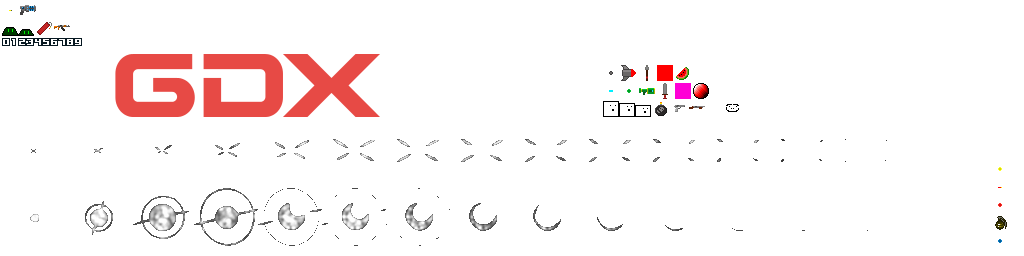
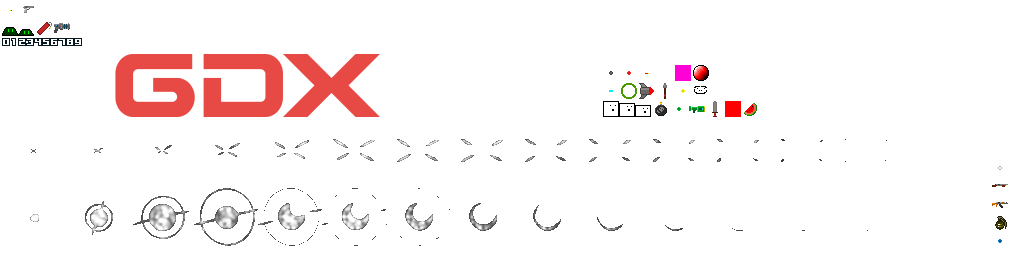
añadir particulas

diff --git a/core/src/main/java/com/tikisadventure/effects/EffectType.java b/core/src/main/java/com/tikisadventure/effects/EffectType.java
@@ -27,9 +27,9 @@ public enum EffectType {
 
     // --- EFECTO DE EXPLOSIÓN SPRITESHEET ---
     EXPLOSION_SPRITESHEET("explosion_spritesheet", 3f, 4f, false, false, 0f, Color.WHITE, Color.YELLOW, 1f),
-    FIRE_PARTICLE("RedBullet", 0.9f, 0.35f, false, true, 0f, Color.ORANGE, Color.RED, 0.95f),
-    POISON_PARTICLE("GreenBullet", 0.6f, 0.4f, false, true, 0f, Color.LIME, Color.GREEN, 0.95f),
-    
+    FIRE_PARTICLE("WhiteBullet", 0.9f, 0.35f, false, true, 0f, Color.ORANGE, Color.RED, 0.95f),
+    POISON_PARTICLE("GreenBubble", 0.3f, 0.4f, false, true, 0f, Color.LIME, Color.GREEN, 0.95f),
+
     // --- EFECTO DE IMPACTO ---
     IMPACT_EFFECT("impact_spritesheet", 2f, 0.15f, false, false, 0f, Color.WHITE, Color.WHITE, 1f);
 

diff --git a/core/src/main/java/com/tikisadventure/combat/statuses/PoisonStatus.java b/core/src/main/java/com/tikisadventure/combat/statuses/PoisonStatus.java
@@ -41,7 +41,7 @@ public class PoisonStatus implements StatusEffect {
             float offsetY = MathUtils.random(-target.getALTO() / 2f * dispersion, target.getALTO() / 2f * dispersion);
             Vector2 spawnPos = new Vector2(target.getPosicion()).add(offsetX, offsetY);
             // Poison particles drift slowly upwards
-            effectManager.spawnSingleParticle(EffectType.POISON_PARTICLE, spawnPos, new Vector2(MathUtils.random(-5f, 5f), 10f));
+            effectManager.spawnSingleParticle(EffectType.POISON_PARTICLE, spawnPos, new Vector2(MathUtils.random(-5f, 5f), 4f));
             particleTimer = 0;
         }
     }
